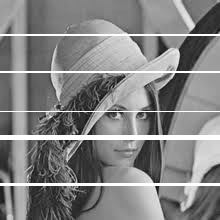
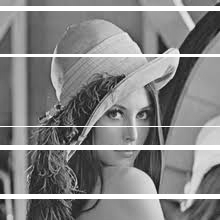
update horizontal interstripation

diff --git a/edu/slavik/interstripation/core/modified/HorizontalInterstripation.py b/edu/slavik/interstripation/core/modified/HorizontalInterstripation.py
@@ -5,25 +5,46 @@ Contains method for restore horizontal stripes using modified interstripation
 """
 
 
-class HorizontalInterstripation:
+def restore(surface, stripe):
+    """
+    Restore given horizontal stripe data in given surface
 
-    @staticmethod
-    def restore(surface, stripe):
-        """
-        Restore given horizontal stripe data in given surface
+    Parameters
+    ----------
+    surface: Surface
+        surface data
+    stripe: Stripe
+        defect data
+    """
+    startAt = stripe.startAt - 1
+    endAt = stripe.endAt
 
-        Parameters
-        ----------
-        surface: Surface
-            surface data
-        stripe: Stripe
-            defect data
-        """
-        startAt = stripe.startAt - 1
-        endAt = stripe.endAt
+    for i in range(startAt, endAt):
+        for j in range(surface.matrix.shape[1]):
+            surface.matrix[i, j] = \
+                (i - endAt) / (startAt - endAt) * rightDelta(surface, stripe, i, j) - \
+                (i - startAt) / (startAt - endAt) * leftDelta(surface, stripe, i, j)
 
-        for i in range(startAt, endAt):
-            for j in range(surface.matrix.shape[1]):
-                surface.matrix[i, j] = \
-                    (i - endAt) * surface.matrix[startAt, j] / (startAt - endAt) - \
-                    (i - startAt) * surface.matrix[endAt, j] / (startAt - endAt)
+
+def distance(value, stripe):
+    return min(value - stripe.startAt + 1, stripe.endAt - value)
+
+
+def leftDelta(surface, stripe, x, y):
+    r = distance(x, stripe)
+    res = 0
+
+    for i in range(r):
+        res += surface.matrix[stripe.startAt - i, y]
+
+    return res / (r + 1)
+
+
+def rightDelta(surface, stripe, x, y):
+    r = distance(x, stripe)
+    res = 0
+
+    for i in range(-r, r):
+        res += surface.matrix[stripe.endAt + i, y]
+
+    return res / (r + 1)

diff --git a/edu/slavik/interstripation/results/modified/RestoreHorizontalStripes.py b/edu/slavik/interstripation/results/modified/RestoreHorizontalStripes.py
@@ -1,0 +1,24 @@
+from edu.slavik.interstripation.surface.Surface import Surface
+from edu.slavik.interstripation.surface.LinearEdgesSurface import LinearEdgesSurface
+from edu.slavik.interstripation.core.modified.HorizontalInterstripation import restore
+"""
+Contains example of restore vertical stripes using standard horizontal interstripation
+
+@author: oleksii.slavik
+"""
+
+# remove horizontal stripes
+surface = LinearEdgesSurface('../../resources/test.jpeg', 0, 5, 5, 5)
+surface.removeStripes()
+surface.save('../../resources/modified/corrupted/horizontal.png')
+
+# restore horizontal stripes
+for i in range(len(surface.horizontalStripes)):
+    restore(surface, surface.horizontalStripes[i])
+
+surface.save('../../resources/modified/restored/horizontal.png')
+
+# compare with original
+origin = Surface('../../resources/test.jpeg')
+error = origin.compare(surface)
+error.save('../../resources/modified/error/horizontal.png')
